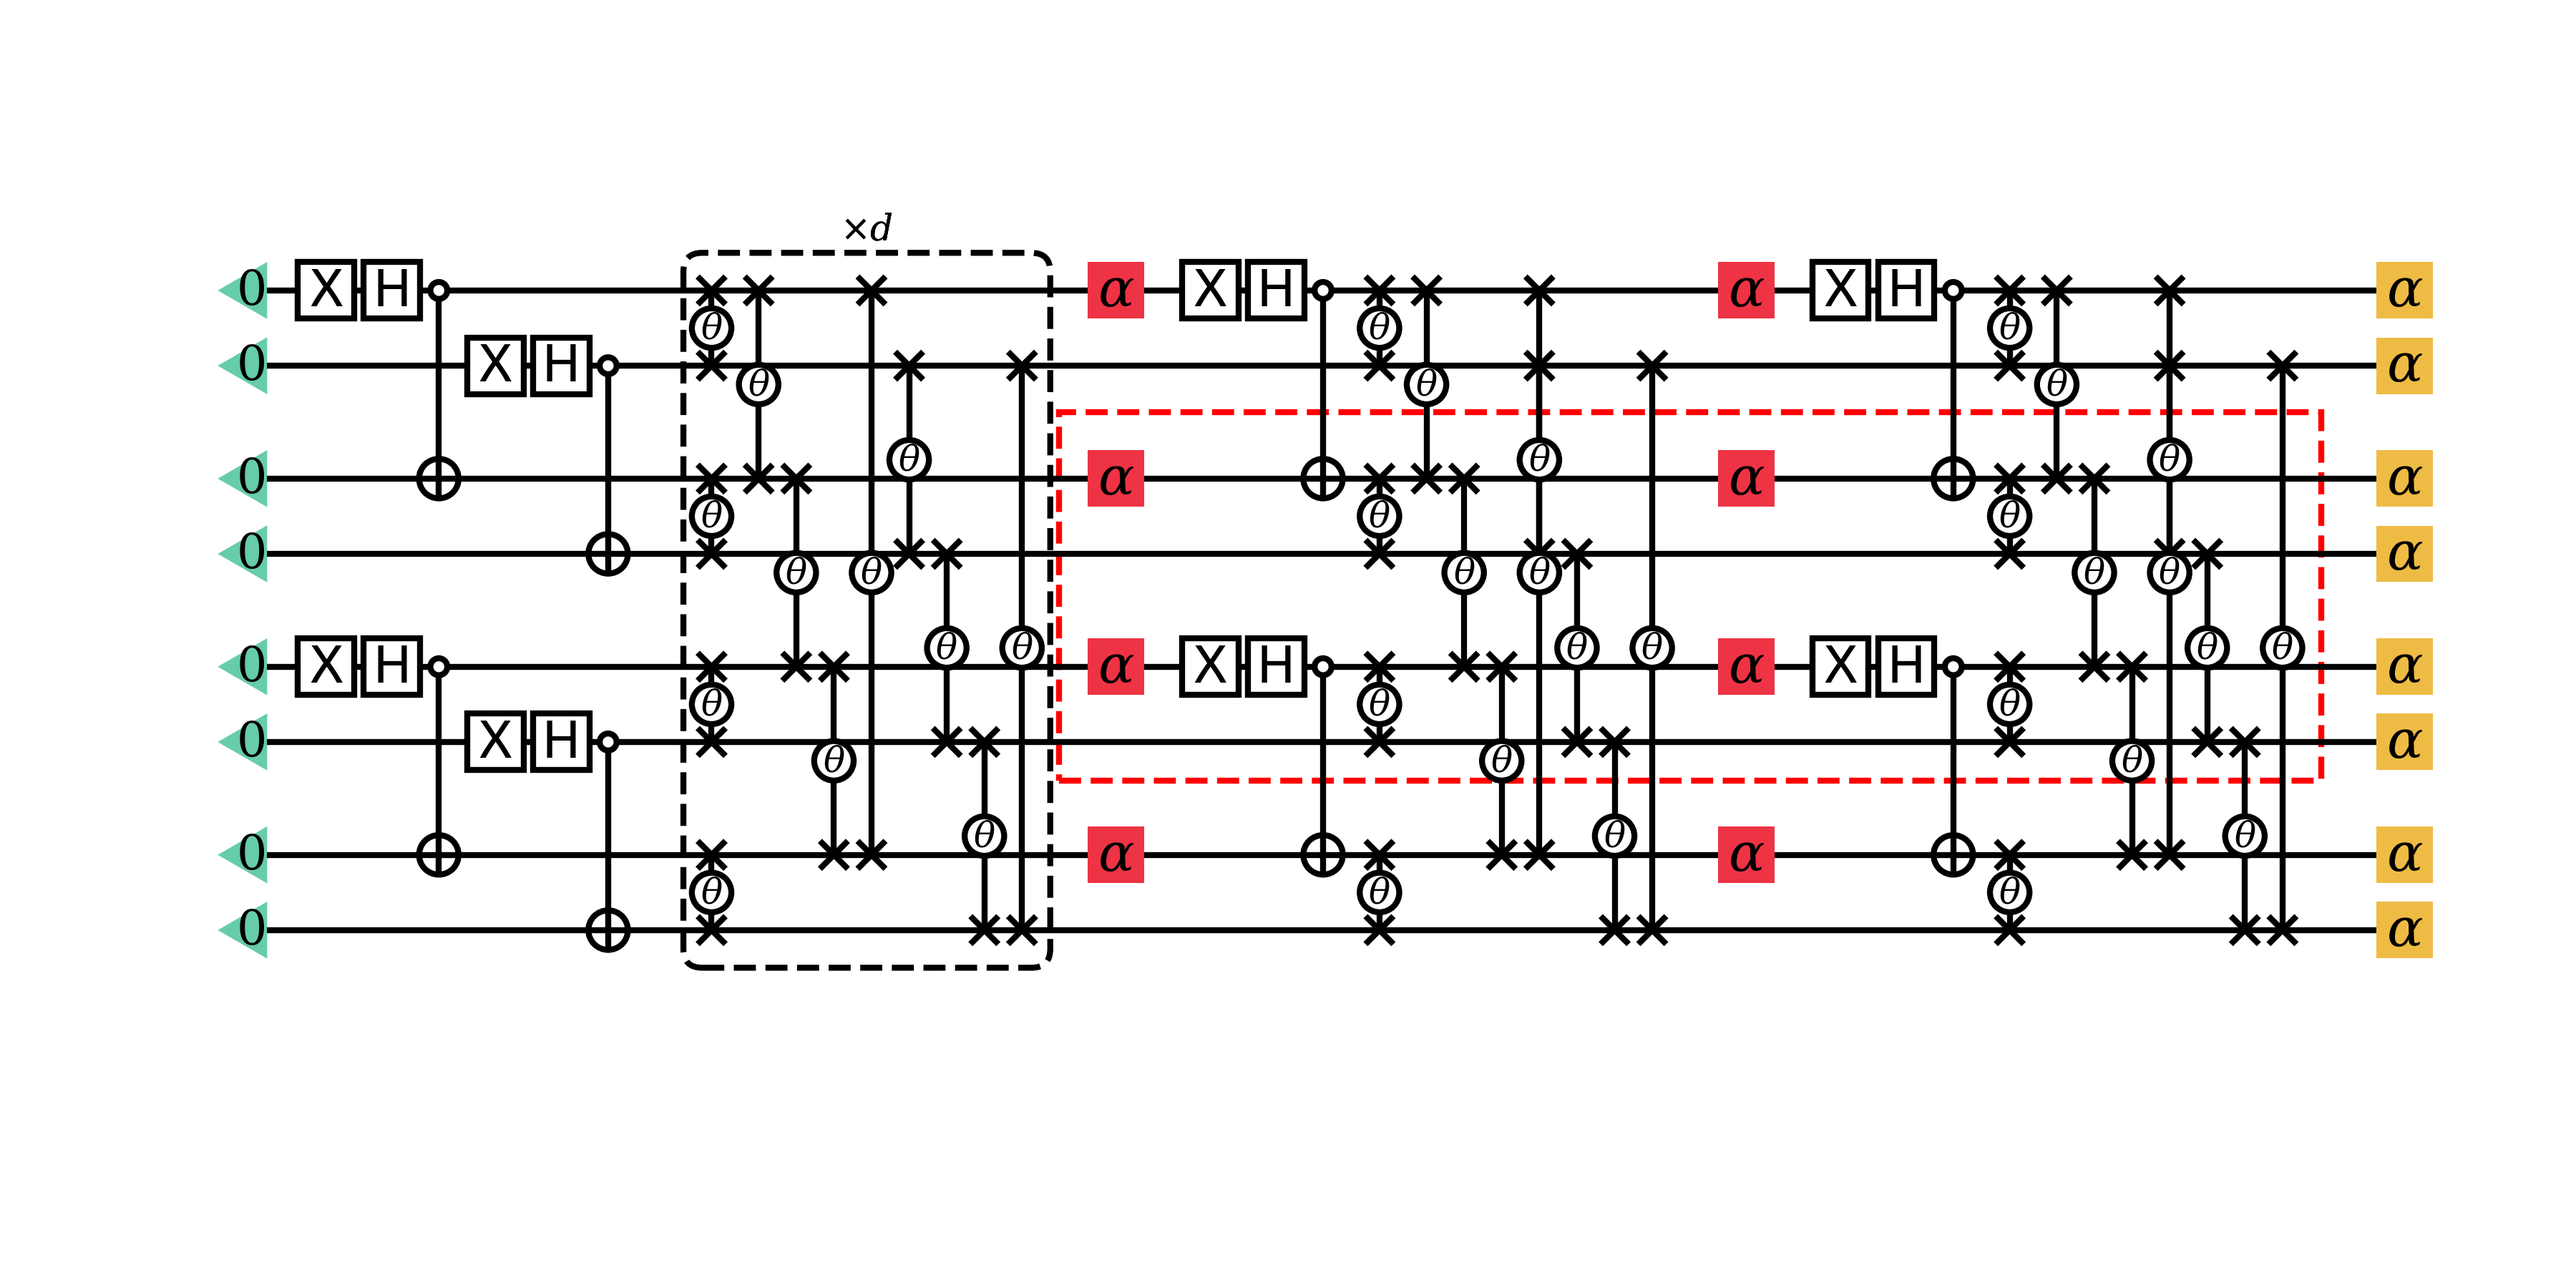
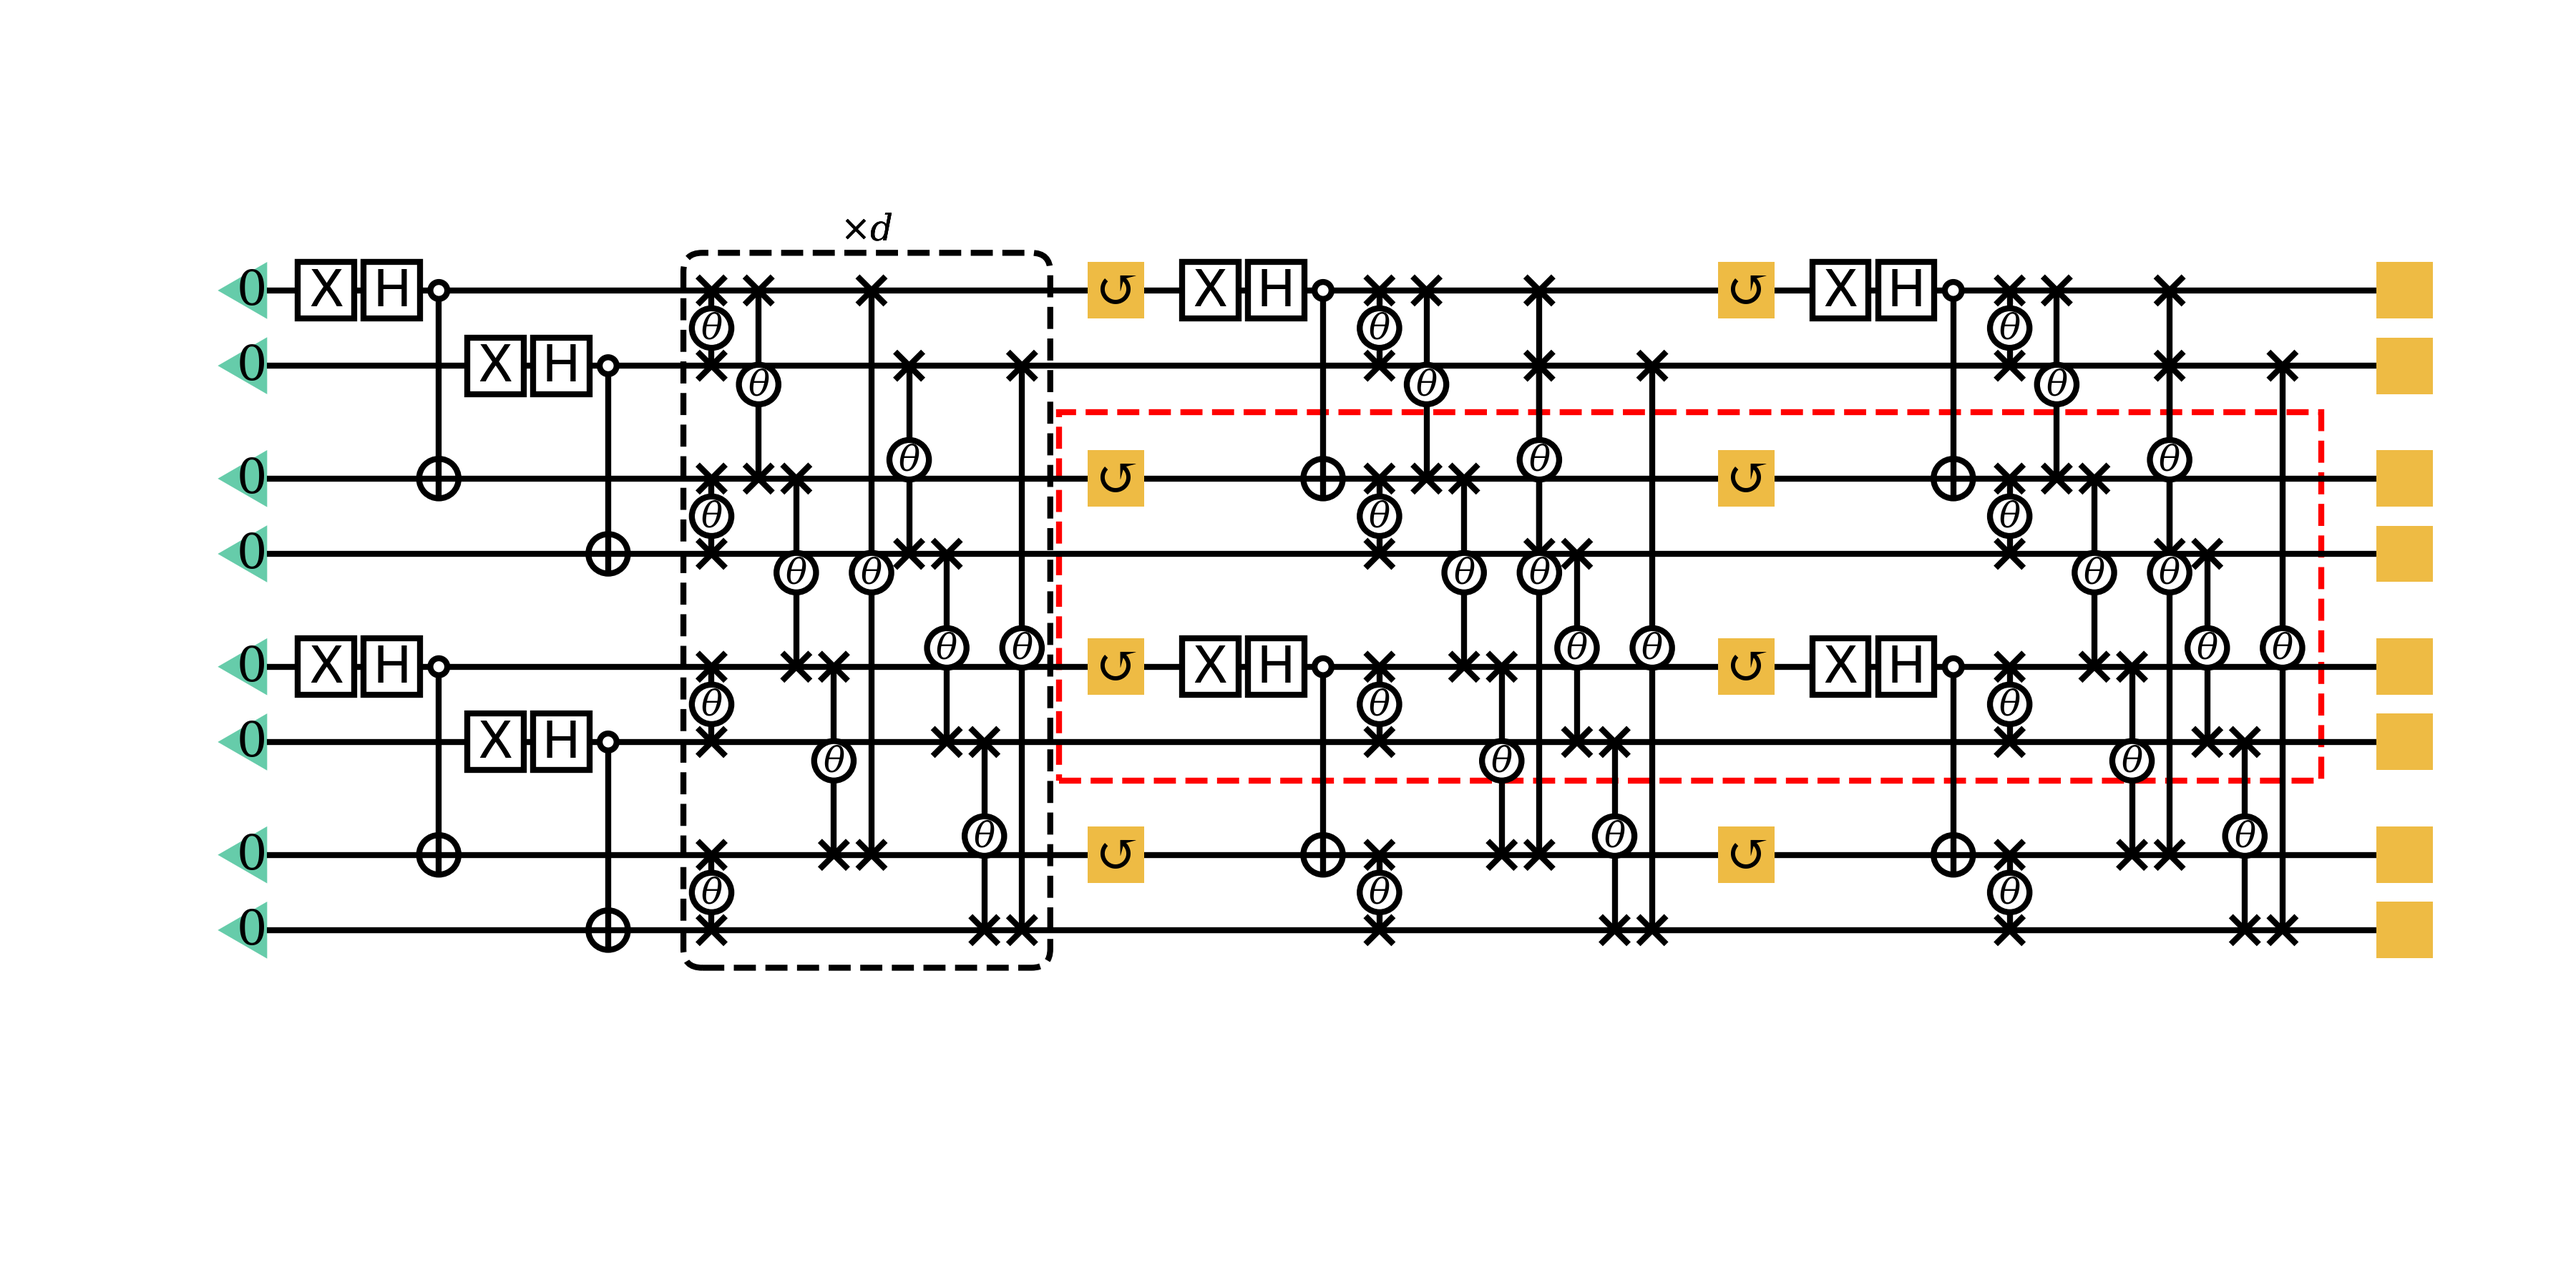
compat fix

diff --git a/docs/images/plot.py b/docs/images/plot.py
@@ -35,7 +35,8 @@ def measure(handler, i, basis):
     return handler.gate(sq, i, basis)
     
 def measure_reset(handler, i, basis):
-    return handler.gate(sqr, i, basis)
+    g = handler.gate(sq, i, r'$\circlearrowleft$')
+    return g
 
 class PLT(object):
     def j1j2(self, tp="png"):
@@ -92,7 +93,7 @@ class PLT(object):
                 measure(handler, i, basis)
 
     def j1j244(self, tp="png"):
-        basis=r"$\alpha$"
+        basis=r""
         Ny = 4
         Nv = 1
         Ng = Nv+1
